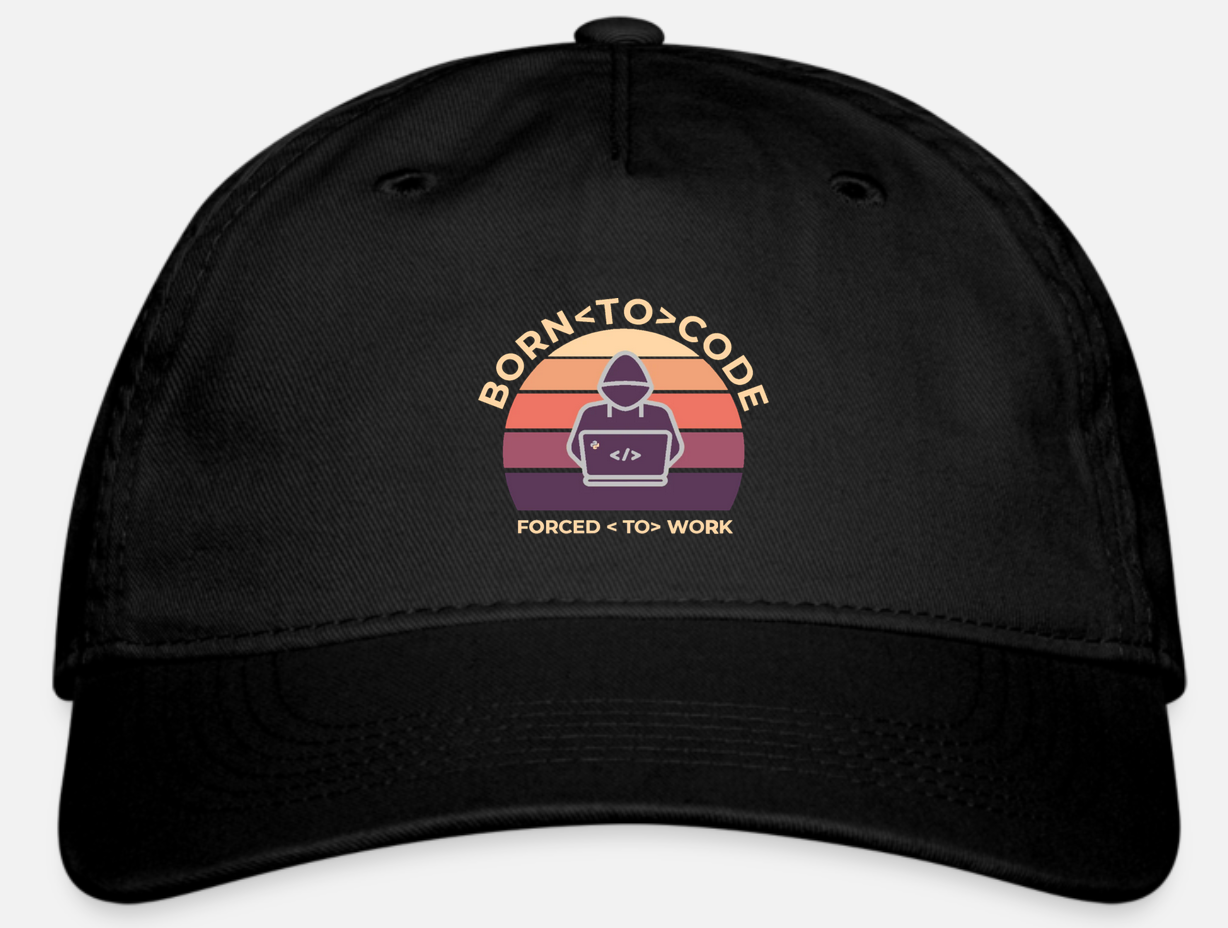
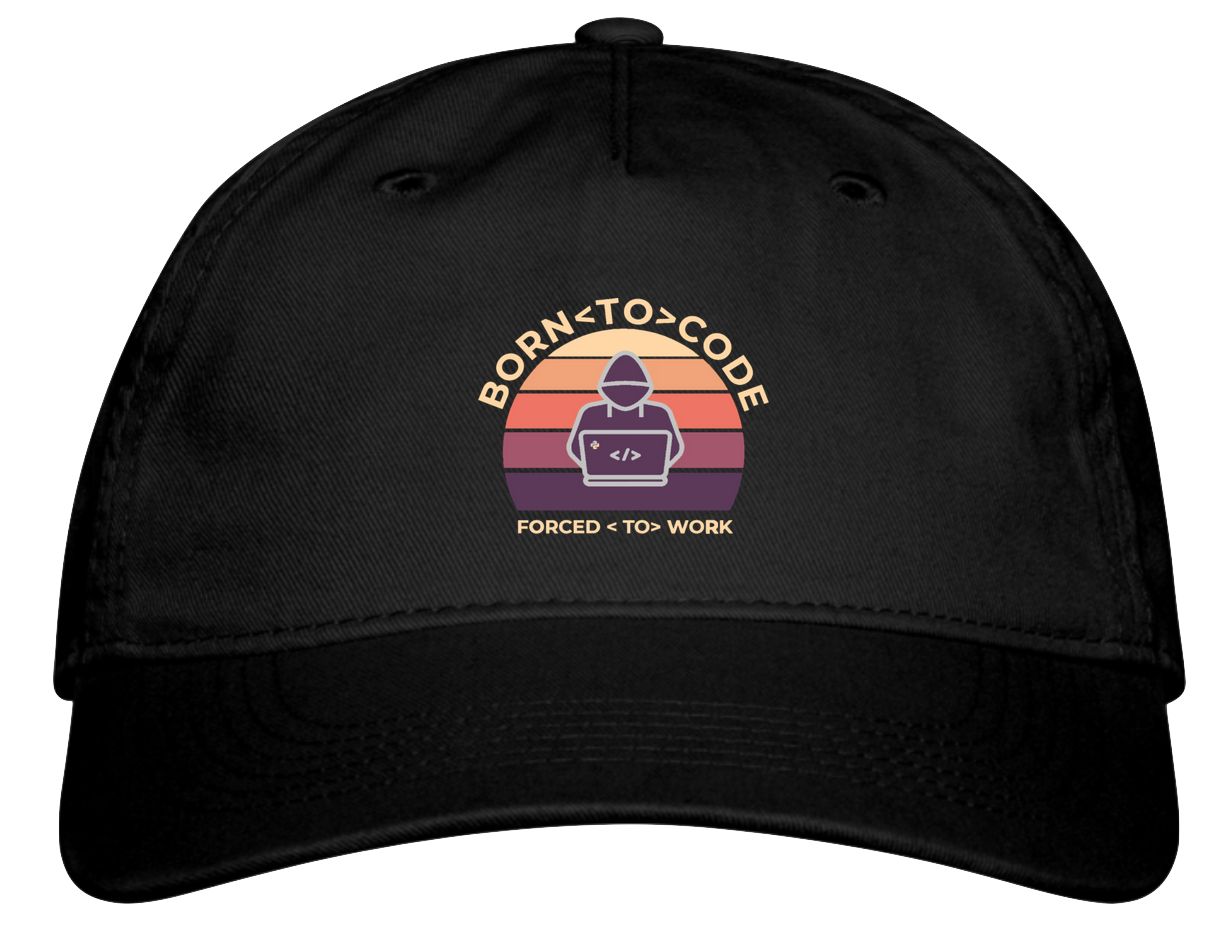
removed productd backgrounds add cartcomponent

Changed region(s): [[0.0309, 0.875, 0.9593, 1.0], [0.9283, 0.75, 0.9593, 0.7812], [0.0309, 0.75, 0.0619, 0.7812]]

diff --git a/src/Components/Cart.js b/src/Components/Cart.js
@@ -14,11 +14,14 @@ import {
   Form,
 } from 'react-bootstrap';
 
-import { updateQuantity } from '../store/cart';
+import { updateQuantity, fetchCart } from '../store/cart';
+import { useEffect } from 'react';
 
 const Cart = (props) => {
   const { cart } = props;
   const lineItems = cart.lineItems;
+
+  console.log('inside Cart', props);
 
   async function handleRemove(cart, product, quantity) {
     await props.updateQuantity({ cart, product, quantity });
@@ -49,16 +52,20 @@ const Cart = (props) => {
         </div>
         {lineItems.map((item) => {
           return (
-            <Card style={{ height: '12rem' }} key={item.product.id}>
-              <Card.Body>
-                <Container fluid>
+            <Container>
+              <Card
+                style={{ height: '12rem', border: 0 }}
+                key={item.product.id}
+              >
+                <Card.Body className="square border-top">
                   <Row>
                     <Col sm={2}>
                       <Image
-                        style={{ height: '5rem' }}
+                        style={{ height: '5rem', border: 0 }}
                         src={item.product.imageUrl1}
                         alt={item.product.name}
-                        thumbnail
+                        class="shadow-lg p-3 mb-5 bg-white rounded"
+                        thumbnail={true}
                       ></Image>
                     </Col>
                     <Col sm={7}>
@@ -103,14 +110,14 @@ const Cart = (props) => {
                       </ButtonToolbar>
                     </Col>
                   </Row>
-                </Container>
-              </Card.Body>
-            </Card>
+                </Card.Body>
+              </Card>
+            </Container>
           );
         })}
-        <Card style={{ height: '8rem' }}>
-          <Card.Body>
-            <Container fluid>
+        <Container>
+          <Card style={{ height: '8rem', border: 0 }}>
+            <Card.Body className="square border-top">
               <Row>
                 <Col sm={2}></Col>
                 <Col sm={7}>Subtotal</Col>
@@ -129,15 +136,13 @@ const Cart = (props) => {
                 <Col sm={1}></Col>
                 <Col sm={2}>$1.00</Col>
               </Row>
-            </Container>
-          </Card.Body>
-        </Card>
-        <Row>
-          <Col sm={2}></Col>
-          <Col sm={10}>
-            <Card style={{ height: '8rem', border: 0 }}>
-              <Card.Body>
-                <Container fluid>
+            </Card.Body>
+          </Card>
+          <Row>
+            <Col sm={2}></Col>
+            <Col sm={10}>
+              <Card style={{ height: '8rem', border: 0 }}>
+                <Card.Body className="square border-top">
                   <Row>
                     <Col></Col>
                     <Col></Col>
@@ -169,11 +174,11 @@ const Cart = (props) => {
                     </Col>
                     <Col sm={1}></Col>
                   </Row>
-                </Container>
-              </Card.Body>
-            </Card>
-          </Col>
-        </Row>
+                </Card.Body>
+              </Card>
+            </Col>
+          </Row>
+        </Container>
       </>
     );
   }
@@ -188,6 +193,7 @@ const mapStateToProps = (state) => {
 const mapDispatchToProps = (dispatch, { history }) => {
   return {
     updateQuantity: (item) => dispatch(updateQuantity(item, history)),
+    fetchCart: () => dispatch(fetchCart()),
   };
 };
 

diff --git a/src/Components/AddToCart.js b/src/Components/AddToCart.js
@@ -1,0 +1,37 @@
+import React, { Component } from 'react';
+import { connect } from 'react-redux';
+import { addToCart } from '../store/cart';
+import Button from 'react-bootstrap/Button';
+import { Link } from 'react-router-dom';
+
+export class AddToCart extends Component {
+  constructor(props) {
+    super(props);
+    this.state = {};
+    this.handleAddToCart = this.handleAddToCart.bind(this);
+  }
+
+  async handleAddToCart(evt, product, quantity) {
+    evt.preventDefault();
+    console.log('inside handleAddToCart', product, quantity);
+    await this.props.addToCart({ product, quantity });
+  }
+  render() {
+    const { handleAddToCart } = this;
+    return (
+      <Button onClick={(evt) => handleAddToCart(evt, product, 1)}>
+        <i className="bi bi-cart-plus"></i>
+      </Button>
+    );
+  }
+}
+
+const mapStateToProps = (state) => ({
+  products: state.productAll.products,
+});
+
+const mapDispatchToProps = (dispatch) => ({
+  addToCart: (product) => dispatch(addToCart(product)),
+});
+
+export default connect(mapStateToProps, mapDispatchToProps)(ProductAll);

diff --git a/src/store/cart.js b/src/store/cart.js
@@ -49,6 +49,7 @@ export const addToCart = (obj) => {
         },
       }
     );
+    console.log('updated inside addto cart', updated);
     dispatch(_addToCart(updated, product, quantity));
   };
 };
@@ -78,6 +79,8 @@ const cartReducer = (state = initialState, action) => {
     case 'SET_CART':
       return action.cart;
     case 'UPDATE_QUANTITY':
+      return action.cart;
+    case 'ADD_TO_CART':
       return action.cart;
 
     default:
